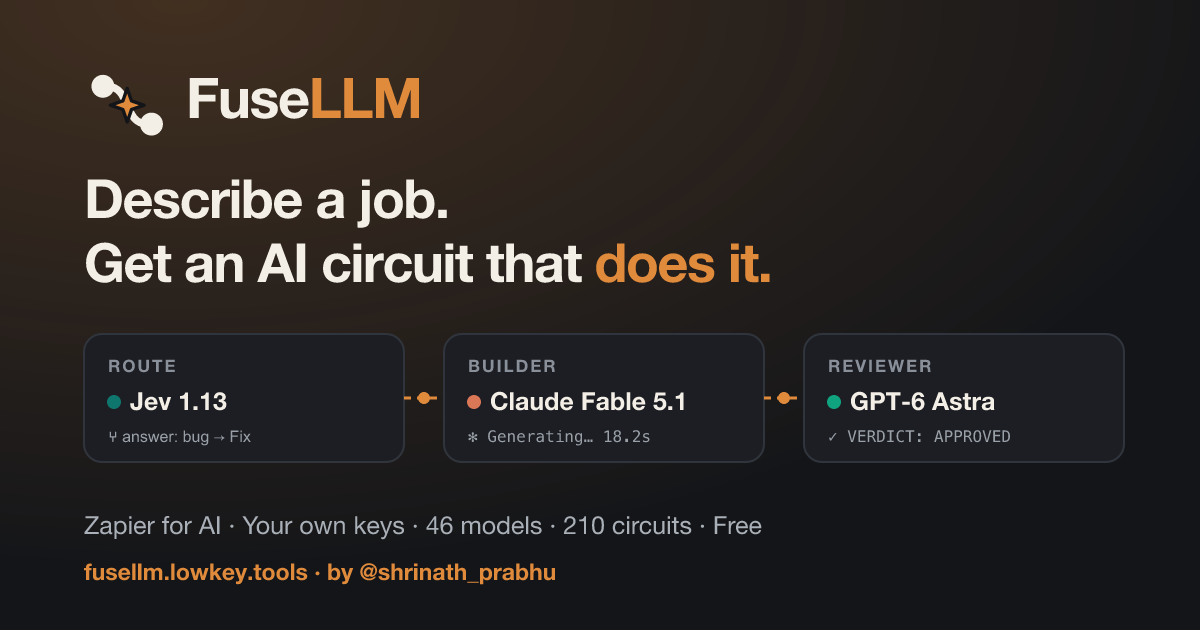
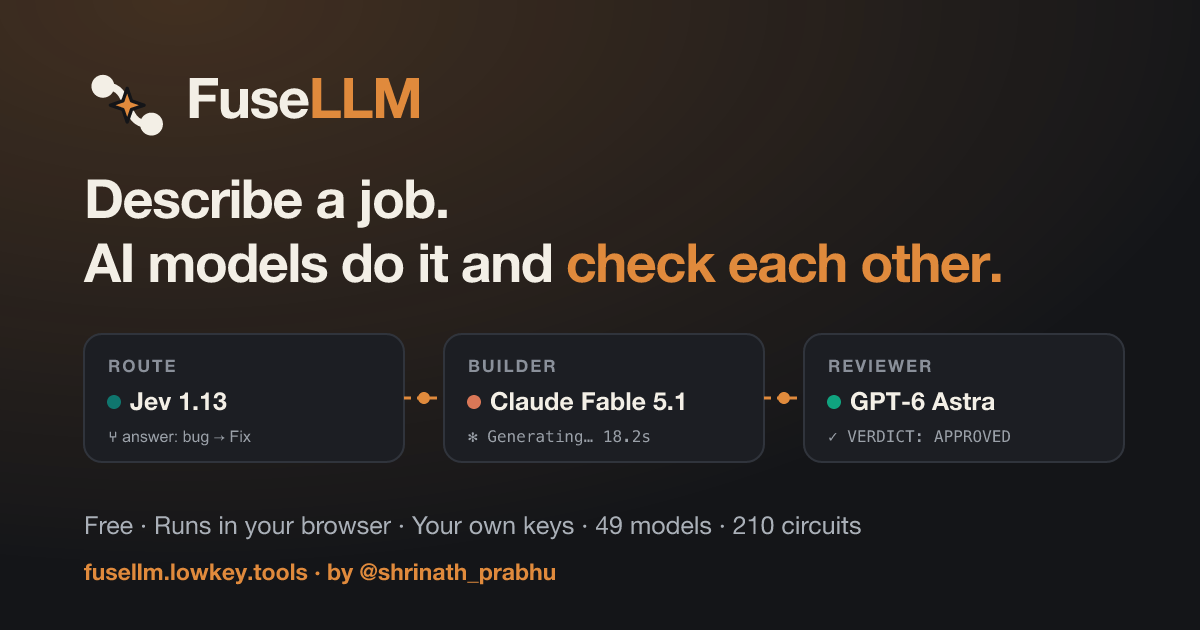
Update content copy

Changed region(s): [[0.0617, 0.3921, 0.8325, 0.4524], [0.0617, 0.8143, 0.7092, 0.8746]]

diff --git a/src/content/site.ts b/src/content/site.ts
@@ -16,18 +16,18 @@ const MODEL_COUNT = MODELS.length
 
 export const SITE = {
   name: 'FuseLLM',
-  tagline: 'Wire AI models into circuits that finish the job.',
+  tagline: 'Describe a job. AI models do it and check each other’s work.',
   title: 'FuseLLM: describe a job, get an AI workflow that does it',
   description:
-    `FuseLLM is a free, browser-only AI workflow builder: Zapier for AI models. Describe a job and it designs a circuit for it, where models research, write, build and review each other within the limits you set, then deliver it to Gmail, GitHub, Slack, Google Docs or Todoist. Bring your own keys for ${MODEL_COUNT} models, including GPT-6, Claude Opus 5.5 and Sonnet 5.5, Gemini 3.1 Pro, Grok 4.7, DeepSeek V4, Kimi K3, Qwen and Perplexity Sonar. Jev decisions route each run down the right branch. Circuits make images, Veo 3.1 video and Lyria 3.5 songs, transcribe recordings, run over lists or on a schedule, and start from 210 templates. No FuseLLM account; keys are stored locally and sent directly to your chosen services.`,
+    `FuseLLM is a free, browser-only AI workflow builder. Describe a job and it designs a circuit for it, a chain of AI steps where models research, write, build and review each other within the limits you set, then deliver it to Gmail, GitHub, Slack, Google Docs or Todoist. Bring your own keys for ${MODEL_COUNT} models, including GPT-6, Claude Opus 5.5 and Sonnet 5.5, Gemini 3.1 Pro, Grok 4.7, DeepSeek V4, Kimi K3, Qwen and Perplexity Sonar. Jev decisions route each run down the right branch. Circuits make images, Veo 3.1 video and Lyria 3.5 songs, transcribe recordings, run over lists or on a schedule, and start from 210 templates. No FuseLLM account; keys are stored locally and sent directly to your chosen services.`,
   short:
-    'A free, browser-only AI workflow builder. Describe a job and get a circuit of models that research, build, review each other and deliver the result, with your own keys.',
+    'FuseLLM builds a circuit for it: a chain of AI models where one writes, another reviews, and the work loops until it passes. Free, in your browser, on your own API keys, within the spend limit you set.',
   /** Under 160 characters, for the meta description search engines show. */
-  meta: `Describe a job and get an AI workflow that does it. Free, browser-only Zapier for AI: your own keys, ${MODEL_COUNT} models, review loops, Jev routing, 210 circuits.`,
+  meta: `Describe a job and get an AI workflow that does it: one model writes, another reviews, it loops until approved. Free, in your browser, your own keys.`,
   social: {
     title: 'FuseLLM: describe a job, get an AI workflow that does it',
-    description: `Free, browser-only Zapier for AI models. Describe a job; models research, build, review each other and deliver it. Your own keys, ${MODEL_COUNT} models, 210 circuits.`,
-    imageAlt: 'FuseLLM: a request becomes a circuit where Jev routes the work, Claude builds, GPT reviews and the result is delivered.',
+    description: `One model writes, another reviews, and it loops until it passes. Describe a job and get the workflow. Free, in your browser, your own keys, ${MODEL_COUNT} models.`,
+    imageAlt: 'FuseLLM: describe a job, and AI models do it and check each other. Jev routes the work, Claude builds and GPT reviews.',
   },
   canonical: 'https://fusellm.lowkey.tools/',
   origin: 'https://fusellm.lowkey.tools',
@@ -169,7 +169,7 @@ export const FEATURES = [
   {
     icon: '⚡',
     title: 'Circuits, not prompts',
-    body: 'Zapier for AI models. Claude Fable writes the code, GPT-6 Astra reviews it, and the review loops back until approval or the configured round limit. Human review stages pause for you where it matters. Model stages have a model, a role, skills, tools and a mode.',
+    body: 'A circuit is a chain of AI steps that runs from one brief, each handing its work to the next. Claude Fable writes the code, GPT-6 Astra reviews it, and the review loops back until approval or the configured round limit. Human review stages pause for you where it matters. Model stages have a model, a role, skills, tools and a mode.',
   },
   {
     icon: '⚖',
@@ -271,7 +271,7 @@ export const STEPS = [
 export const FAQ = [
   {
     q: 'What is FuseLLM?',
-    a: 'FuseLLM is a free AI workflow builder that runs entirely in your browser, like Zapier for AI models. You describe a job, it designs a circuit of models that research, build and review each other within the limits you set, and the result goes to your email, GitHub, Slack or Google Docs. You bring your own API keys; no FuseLLM account is needed, and workflows run in your browser.',
+    a: 'FuseLLM is a free AI workflow builder that runs entirely in your browser. You describe a job, it designs a circuit of models that research, build and review each other within the limits you set, and the result goes to your email, GitHub, Slack or Google Docs. You bring your own API keys; no FuseLLM account is needed, and workflows run in your browser.',
   },
   {
     q: 'Is FuseLLM free?',
@@ -283,7 +283,7 @@ export const FAQ = [
   },
   {
     q: 'What is a circuit in FuseLLM?',
-    a: 'A circuit is an automated chain of AI models, like a Zapier zap for LLMs. Stages can call a model, run an app action, generate media, make a decision or pause for human review. Wires pass the output, the original input, the full context or shared memory from one stage to the next, and loops let a reviewer send work back until approval or the configured round limit.',
+    a: 'A circuit is a chain of AI steps that runs from one brief, each stage handing its work to the next. Stages can call a model, run an app action, generate media, make a decision or pause for human review. Wires pass the output, the original input, the full context or shared memory from one stage to the next, and loops let a reviewer send work back until approval or the configured round limit.',
   },
   {
     q: 'Which AI models does FuseLLM support?',
@@ -354,8 +354,8 @@ export const FAQ = [
     a: 'Open FuseLLM, type or dictate the job and where the result should go, for example “every Monday, research what changed at three competitors and email me a one-page brief”, and press Build it. With an OpenRouter key, Jev helps choose a template; otherwise the builder uses a text match. An efficient model designs the stages and matches a model to each one, and FuseLLM checks every model, role, skill and app step before opening the circuit for you to review and run.',
   },
   {
-    q: 'Is FuseLLM a Zapier alternative for AI?',
-    a: 'For AI-heavy work, yes. FuseLLM chains AI models the way Zapier chains apps: stages run one after another, reviewers loop work back within configured limits, Jev branches the run, and the result goes to Gmail, GitHub, Slack, Google Docs, Sheets, Todoist and more. FuseLLM itself is free, runs in your browser with your own keys and needs no FuseLLM account. Provider usage still costs money. Use a hosted automation service when you need triggers that fire while your computer is off.',
+    q: 'Is FuseLLM a Zapier alternative?',
+    a: 'Only for work that is mostly AI. FuseLLM chains AI models the way Zapier chains apps: stages run one after another, reviewers loop work back within configured limits, Jev branches the run, and the result goes to Gmail, GitHub, Slack, Google Docs, Sheets, Todoist and more. It is not a replacement for a hosted automation service: there are no triggers, eighteen apps are built in rather than thousands, and nothing runs while the app is closed. FuseLLM itself is free, runs in your browser with your own keys and needs no FuseLLM account; provider usage still costs money.',
   },
   {
     q: 'What is Jev in FuseLLM?',
@@ -401,8 +401,9 @@ export const USE_CASES = [
 
 export const KEYWORDS = [
   'AI workflow builder',
-  'Zapier for AI',
-  'Zapier for LLMs',
+  'AI models that review each other',
+  'AI review loop',
+  'prompt chaining',
   'no-code AI automation',
   'AI agent builder',
   'multi-agent workflow',

diff --git a/seo/plugin.ts b/seo/plugin.ts
@@ -42,10 +42,10 @@ export function landingHtml(): string {
   const content = `<div class="page landing">
 <section class="hero">
 <p class="eyebrow">Free · Bring your own keys · Runs in your browser</p>
-<h1 class="hero-title">Wire AI models into circuits<br>that finish the job.</h1>
+<h1 class="hero-title">Describe a job.<br>AI models do it and check each other.</h1>
 <p class="lede">${esc(SITE.short)}</p>
 <div class="hero-cta"><a class="btn primary big" href="${SITE.base}models">${renderToStaticMarkup(createElement(Icon, { name: 'key' }))} Add your key</a><a class="btn big" href="${SITE.base}circuits">${renderToStaticMarkup(createElement(Icon, { name: 'circuit' }))} Browse circuits</a></div>
-<p class="hero-note muted small">One OpenRouter key unlocks all ${MODELS.length} models and the Studio, including a free one. Keys never leave this device.</p>
+<p class="hero-note muted small">One OpenRouter key unlocks all ${MODELS.length} models and the Studio, including a free one. Keys are stored in this browser and sent only to the providers you use.</p>
 <div class="hero-demo" role="img" aria-label="Example circuit: Claude Fable builds, GPT-6 Astra reviews, loop until approved">
 <div class="demo-node"><span class="demo-role">Builder</span><span class="demo-model"><span class="dot" style="--c:#d97757"></span> Claude Fable 5.1</span><span class="demo-status mono">✻ Generating… 18.2s · ↓ 4.1k</span></div>
 <div class="demo-wire" aria-hidden="true"><span class="demo-spark"></span><span class="demo-wire-label">output + input</span></div>
@@ -354,7 +354,7 @@ A stop-loss is a token limit for a chat request, a stage or a whole circuit, inp
 
 ## Security
 
-- No backend, no cookies. Keys, chats, circuits and runs never leave the browser.
+- No backend, no cookies. Keys, chats, circuits and runs are stored in the browser, and requests go directly to the providers you configure.
 - Cookie-free usage statistics (screens opened, features and models used, timings, failures; never prompts, replies, files or keys) go to OwlEye Analytics and can be switched off in Settings.
 - Strict Content Security Policy: scripts only from the app's own origin; remote images blocked so model output cannot leak data through image URLs.
 - Model output is rendered as Markdown with raw HTML disabled.

diff --git a/index.html b/index.html
@@ -14,7 +14,7 @@
     <meta name="publisher" content="OwlEye Analytics" />
     <meta name="creator" content="Shrinath Prabhu" />
     <meta name="application-name" content="FuseLLM" />
-    <meta name="keywords" content="BYOK AI chat, multi-model AI, AI agent workflow, Zapier for LLMs, AI code review loop, OpenRouter client, MCP client, Claude, ChatGPT, Gemini, free AI workspace" />
+    <meta name="keywords" content="BYOK AI chat, multi-model AI, AI agent workflow, prompt chaining, AI code review loop, OpenRouter client, MCP client, Claude, ChatGPT, Gemini, free AI workspace" />
     <link rel="author" href="https://shrinath.me" />
     <link rel="publisher" href="https://owleye.dev" />
     <meta name="color-scheme" content="light dark" />
@@ -26,7 +26,7 @@
     <meta property="og:site_name" content="FuseLLM" />
     <meta property="og:locale" content="en_US" />
     <meta property="og:url" content="https://fusellm.lowkey.tools/" />
-    <meta property="og:title" content="FuseLLM: wire AI models into circuits that finish the job" />
+    <meta property="og:title" content="FuseLLM: describe a job, get an AI workflow that does it" />
     <meta
       property="og:description"
       content="Bring your own keys. Claude builds, ChatGPT reviews, and the loop runs until it passes. Free, no account, runs entirely in your browser."
@@ -39,7 +39,7 @@
 
     <meta name="twitter:creator" content="@shrinath_prabhu" />
     <meta name="twitter:card" content="summary_large_image" />
-    <meta name="twitter:title" content="FuseLLM: wire AI models into circuits that finish the job" />
+    <meta name="twitter:title" content="FuseLLM: describe a job, get an AI workflow that does it" />
     <meta name="twitter:description" content="Bring your own keys. Claude builds, ChatGPT reviews, the loop runs until it passes. Free and browser-only." />
     <meta name="twitter:image" content="https://fusellm.lowkey.tools/og.png" />
     <meta name="twitter:image:alt" content="FuseLLM: two AI models wired together in a review loop." />

diff --git a/vite.config.ts b/vite.config.ts
@@ -67,7 +67,7 @@ export default defineConfig({
       },
       manifest: {
         id: '/',
-        name: 'FuseLLM: AI workflows that finish the job',
+        name: 'FuseLLM: AI models that do the job and check each other',
         short_name: 'FuseLLM',
         description:
           'Describe a job and get an AI workflow that does it. Your own keys for Claude, GPT, Gemini, Grok, DeepSeek and more; models research, build and review each other, then deliver. Runs in your browser.',
@@ -98,7 +98,7 @@ export default defineConfig({
           { name: 'Models and keys', short_name: 'Keys', url: '/models', icons: [{ src: '/icon-192.png', sizes: '192x192' }] },
         ],
         screenshots: [
-          { src: '/og.png', sizes: '1200x630', type: 'image/png', form_factor: 'wide', label: 'FuseLLM: wire AI models into circuits that finish the job' },
+          { src: '/og.png', sizes: '1200x630', type: 'image/png', form_factor: 'wide', label: 'FuseLLM: describe a job, AI models do it and check each other’s work' },
         ],
       },
     }),

diff --git a/src/views/Home.tsx b/src/views/Home.tsx
@@ -245,9 +245,9 @@ export function Landing() {
       <section className="hero">
         <p className="eyebrow">Free · Bring your own keys · Runs in your browser</p>
         <h1 className="hero-title">
-          Wire AI models into circuits
+          Describe a job.
           <br />
-          that finish the job.
+          AI models do it and check each other.
         </h1>
         <p className="lede">{SITE.short}</p>
         <div className="hero-cta">
@@ -258,7 +258,7 @@ export function Landing() {
             <Icon name="circuit" /> Browse circuits
           </a>
         </div>
-        <p className="hero-note muted small">One OpenRouter key unlocks all {MODELS.length} models and the Studio, including a free one. Keys never leave this device.</p>
+        <p className="hero-note muted small">One OpenRouter key unlocks all {MODELS.length} models and the Studio, including a free one. Keys are stored in this browser and sent only to the providers you use.</p>
         <HeroDemo />
       </section>
 

diff --git a/src/styles/app.css b/src/styles/app.css
@@ -543,6 +543,7 @@
 }
 .hero-title {
   margin: 0 0 1rem;
+  text-wrap: balance;
   font-size: clamp(2rem, 8vw, 3.4rem);
   line-height: 1.04;
   letter-spacing: -0.04em;

diff --git a/README.md b/README.md
@@ -1,8 +1,8 @@
 # FuseLLM
 
-**Wire AI models into circuits that finish the job.** A free, browser-only, bring-your-own-key AI workspace at **[fusellm.lowkey.tools](https://fusellm.lowkey.tools/)**.
+**Describe a job. AI models do it and check each other’s work.** A free, browser-only, bring-your-own-key AI workflow builder at **[fusellm.lowkey.tools](https://fusellm.lowkey.tools/)**.
 
-Chat with the best models side by side, then wire them together like a Zapier zap: Claude Fable writes the code, GPT-6 Astra reviews it, and the review loops back until it is approved. No approval clicks, no server, no account. Keys never leave the device.
+Chat with the best models side by side, then chain them into a circuit: Claude Fable writes the code, GPT-6 Astra reviews it, and the review loops back until it is approved. No approval clicks, no server, no account. Keys are stored in the browser and sent only to the providers you use.
 
 Built by [Shrinath Prabhu](https://shrinath.me), from the makers of [OwlEye Analytics](https://owleye.dev). Part of [lowkey.tools](https://lowkey.tools).
 
@@ -13,7 +13,7 @@ Use the **download icon** in the desktop sidebar, mobile app bar, or Settings to
 ## What it does
 
 - **BYOK, 49 models, checked against OpenRouter on 2026-10-09.** Filter by collection — Top picks, Most used (by OpenRouter token volume), Fastest, Cheap, Free, Reliable — or by strength. GPT-6 Astra, GPT-6.1 Sol, GPT-6 Luna, GPT-5.6 Terra, gpt-oss 120B, Claude Fable 5.1 / Opus 5.5 / Sonnet 5.5 / Haiku 5.5, Gemini 3.1 Pro, Gemini 3.8 Flash, Gemma 4 31B (free), Kimi K3, DeepSeek V4 Pro and V4.1 Flash, Grok 4.7, GLM 5.3 and 5.3 Flash, Qwen 3.8 Max, Laguna S 2.1 (free), LongCat 2.0, Aion 3.5, OpenRouter Auto, the Free Models Router, Jev Router (picks the model per request) and the Pareto Code Router, Qwen 3.8 Flash, Xiaomi MiMo V2.6 Pro, Meta Muse Spark 1.3, Mistral Medium 3.5, Mistral Large 4, Step 5 Preview, Apodex 1.1 Mini (free), Pareto 26.10 Preview, Amazon Nova 2 Lite, Cohere Command A+, ByteDance Seed 2.0 Code, Nemotron 3 Ultra, MiniMax M3, Perplexity Sonar Pro and Sonar Deep Research, Sakana Fugu Ultra v2, Thinking Machines Inkling, Tencent Hy4, Upstage Solar Pro 4, Inception Mercury 2.5, inclusionAI Ling 3.1 Flash, Inference.net Schematron V2 Turbo and OpenRouter Fusion. Search and filter them by name, maker, strength or whether a key reaches them. One OpenRouter key reaches all of them; a Perplexity key reaches Sonar and 11 others through the Agent API; direct keys work for OpenAI, Anthropic, Google, DeepSeek, xAI, Moonshot, Qwen and MiniMax. Every key row has an ⓘ with where to get the key, what it looks like and how to cap it.
-- **Circuits** (the "zaps"). A chain of stages. A *model* stage has a role, skills, MCP tools, app tools, a mode and a task; an *action* stage calls an app; a *media* stage makes images, video, speech, music or sound, or cuts a film; a *human review* stage pauses the run so you can continue, continue with comments for the next stage, send the work back to an earlier stage with comments, or cancel. After a run ends — including one that finished cleanly — **Comment and rerun** on any finished step, or **Improve with a comment** on the final output, sends that stage round again with your note in the same slot a reviewer's comment uses, and reruns everything after it. Earlier rounds stay in the timeline. Each stage chooses its **wires in**: *Input* (the brief), *Output* (previous step), *Context* (every step so far), *Memory* (notes saved with `<memory>` tags) and *Media* (earlier files, for models that see, hear or watch). Any stage can **loop** back until it approves (`VERDICT: APPROVED`, or `LGTM`), a phrase appears, or N rounds pass. Reviewers are told to block only on real defects — correctness, security, data loss, performance, a missed requirement — and to leave style and naming under *Optional* rather than holding the work back. Tasks and parameters take placeholders: `{{brief}} {{references}} {{output}} {{final}} {{step:Name}} {{section:Heading}} {{sources}} {{memory}} {{date}} {{review}}`. Media stages can fan out, one file per shot or line (`{{item}}`), and use another stage's files as references.
+- **Circuits.** A chain of stages that runs from one brief. A *model* stage has a role, skills, MCP tools, app tools, a mode and a task; an *action* stage calls an app; a *media* stage makes images, video, speech, music or sound, or cuts a film; a *human review* stage pauses the run so you can continue, continue with comments for the next stage, send the work back to an earlier stage with comments, or cancel. After a run ends — including one that finished cleanly — **Comment and rerun** on any finished step, or **Improve with a comment** on the final output, sends that stage round again with your note in the same slot a reviewer's comment uses, and reruns everything after it. Earlier rounds stay in the timeline. Each stage chooses its **wires in**: *Input* (the brief), *Output* (previous step), *Context* (every step so far), *Memory* (notes saved with `<memory>` tags) and *Media* (earlier files, for models that see, hear or watch). Any stage can **loop** back until it approves (`VERDICT: APPROVED`, or `LGTM`), a phrase appears, or N rounds pass. Reviewers are told to block only on real defects — correctness, security, data loss, performance, a missed requirement — and to leave style and naming under *Optional* rather than holding the work back. Tasks and parameters take placeholders: `{{brief}} {{references}} {{output}} {{final}} {{step:Name}} {{section:Heading}} {{sources}} {{memory}} {{date}} {{review}}`. Media stages can fan out, one file per shot or line (`{{item}}`), and use another stage's files as references.
 - **Templates** (210, on 21 shelves, 15 with Jev decisions), including Jev routing a support ticket, scoring an inbound lead or a CV, rating merge risk, checking an expense claim against policy and grading an eval answer, as well as code review loops, spec → tests → code, deep research, support inbox triage gated by a Jev decision and your own approval, an SEO brief to a published post, prospect research to one cold email, receipts into a Sheet, an interface audited against WCAG before it deploys, incident to postmortem and runbook, a design threat model filed in Linear, numbers to a one-page memo, a prompt lab that tests and rewrites its own prompt, a week-long study guide, CV to interview ready, inbox triage into Todoist, Sentry error triage, meeting notes to a Google Doc, competitor watch into a Sheet, one idea cut for every channel, Figma design review, docs from a repo, a landing page deployed live, and a 12-stage **Movie studio**: script → review → direction → character sheet → keyframes → a Veo clip per shot → narration → score → audio check → edit plan → final cut → screening against the script.
 - **Chain circuits and their results.** **Combine** (on Circuits) chains two or more circuits or templates, in the order you pick, into a new circuit: each part starts from the previous part’s final output (`{{final}}`, so a reviewer’s verdict is not mistaken for the deliverable), clashing stage names get a suffix, and the originals are untouched. When you run any circuit you can attach the **final output of up to three earlier runs** as references; stages that read the Input see them beside the brief, and `{{references}}` places them anywhere. A finished run’s **Use in another circuit** opens the circuit or template you pick with that output already attached. References are copied into the new run (each trimmed to 24,000 characters), so deleting the source run later changes nothing; files from those runs are not carried over, only their text.
 - **Build a circuit from a description** (Circuits page). The request is matched against the templates, Jev picks the closest one (or none), and your strongest ready model (Opus, GPT-6.1 Sol, Gemini Pro…) designs the stages as JSON for a chosen quality (best, balanced, cheapest). Every model, role, skill, app action, loop and branch in the plan is checked; unknown models are swapped for the closest one a key reaches, and anything else unknown is dropped with a note. Optionally every stage runs on **Jev Router**, which picks the model per request. The circuit opens for review before anything runs.
